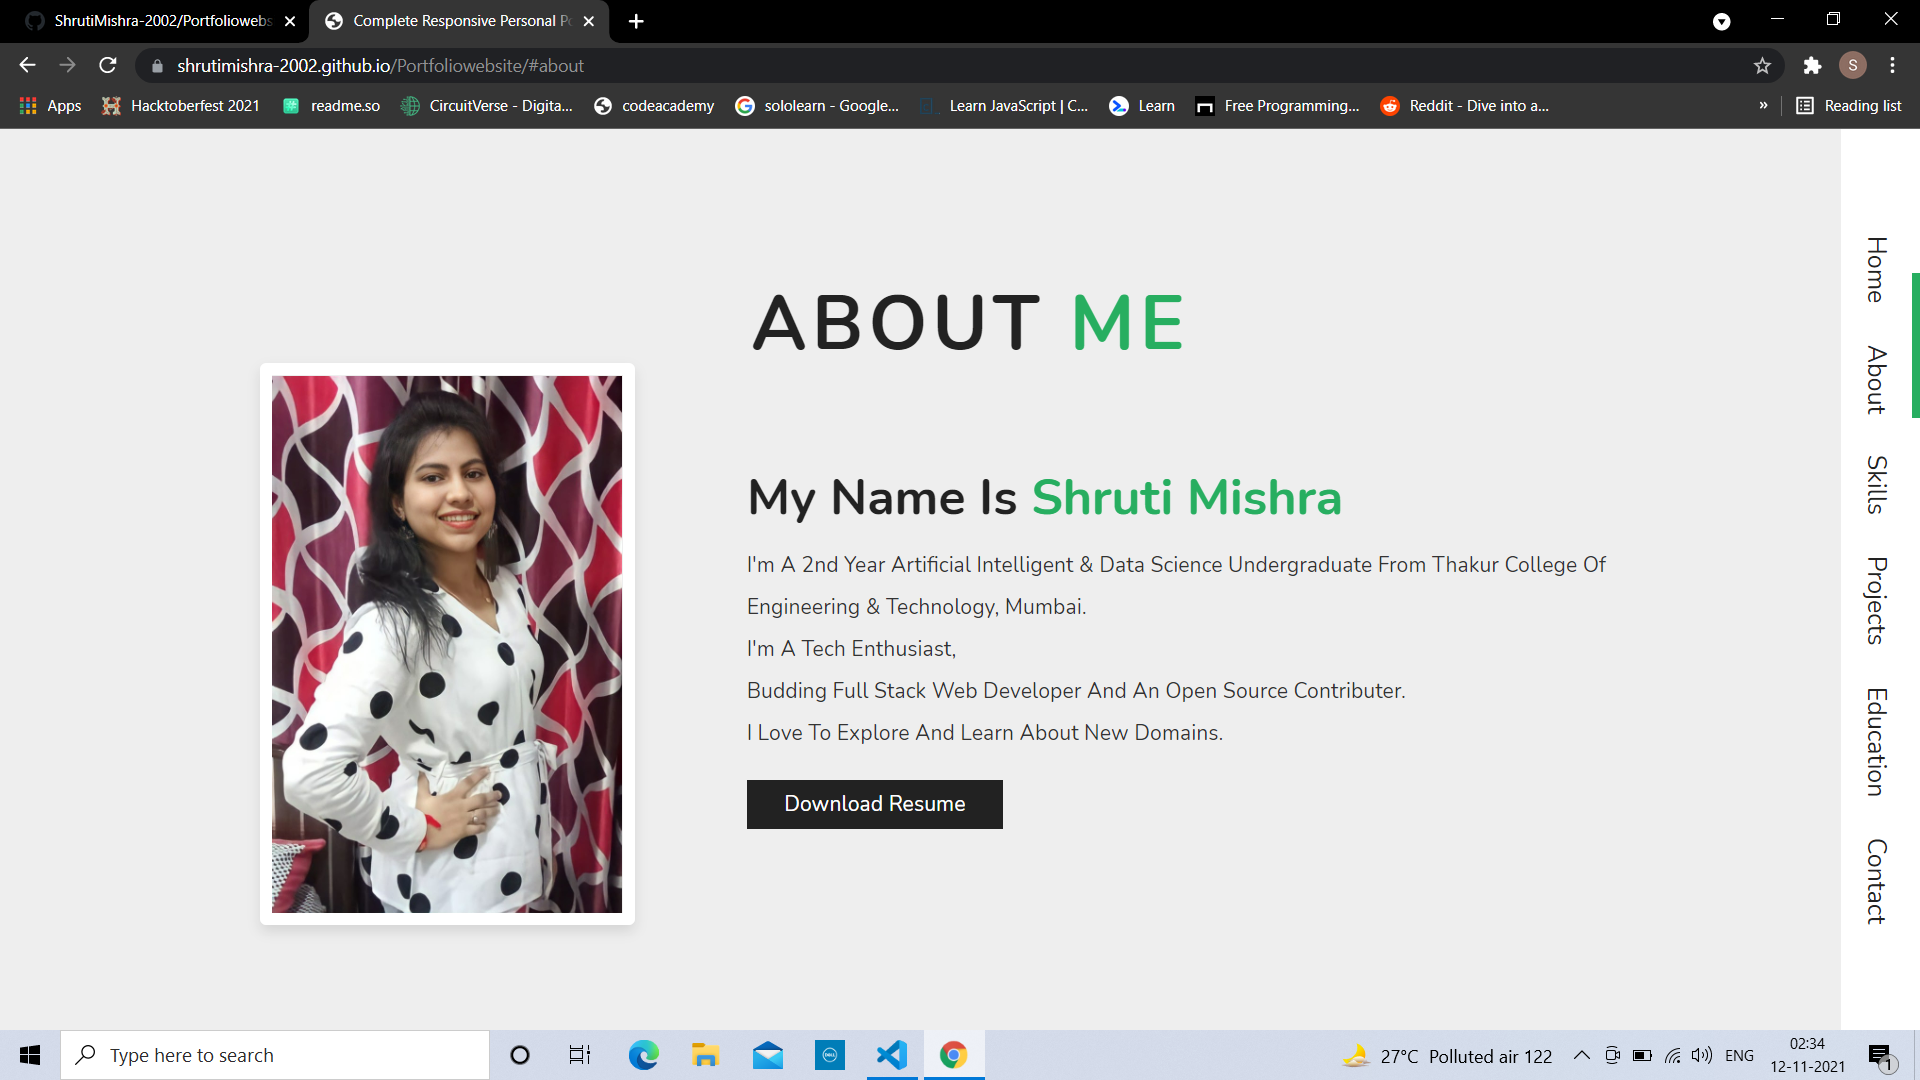
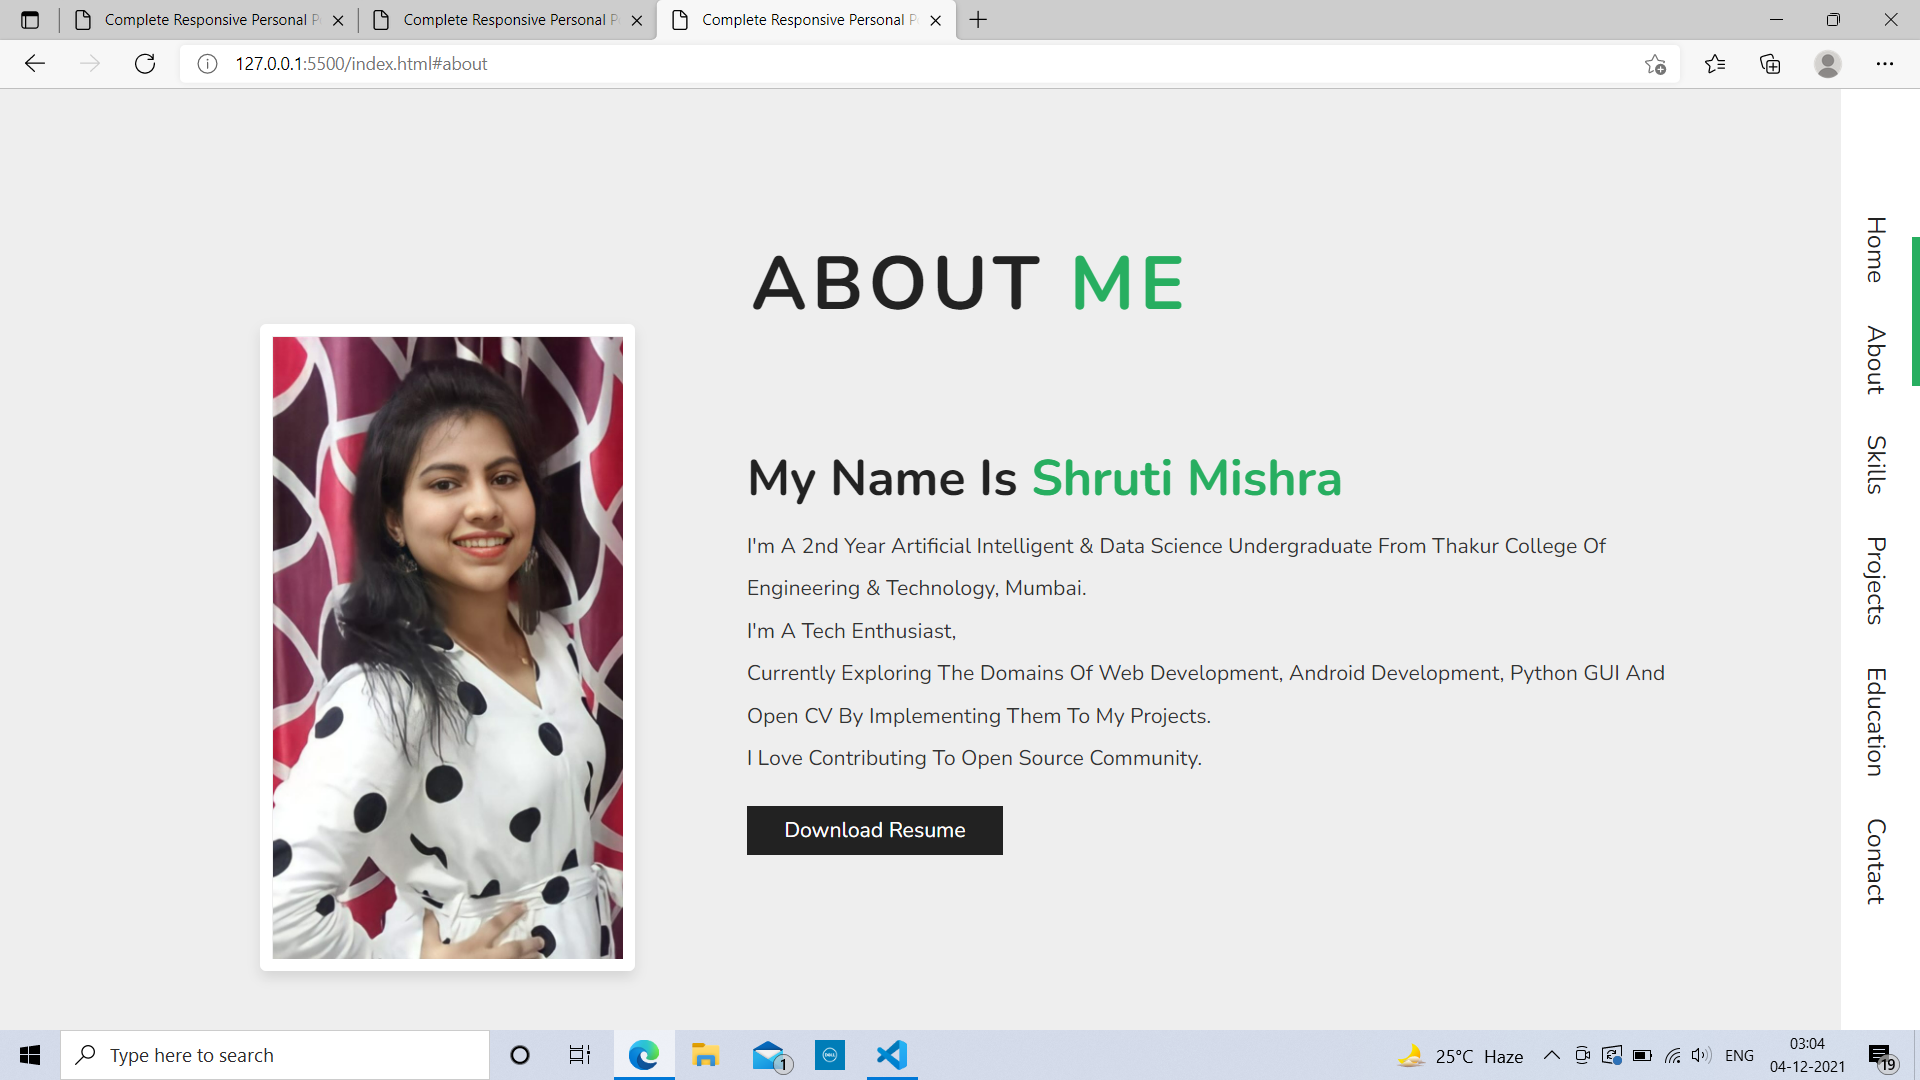
project update

diff --git a/index.html b/index.html
@@ -70,16 +70,16 @@
     <div class="row">
 
         <div class="image">
-            <img class="tilt" src="images/mypic.jpeg" alt="">
+            <img class="tilt" src="images/myself.jpeg" alt="myself">
         </div>
 
         <div class="content">
-            <h3> my name is <span> shruti mishra </span> </h3>
+            <h3> My name is <span> Shruti Mishra </span> </h3>
             <p class="info">I'm a 2nd year Artificial Intelligent & Data Science Undergraduate 
                 from Thakur College Of Engineering & Technology, Mumbai. <br>
                  I'm a Tech Enthusiast,<br>
-                 Budding Full stack Web Developer and an Open Source Contributer.<br>
-                  I love to explore and learn about new domains.
+                 Currently exploring the domains of Web development, Android development, Python GUI and Open CV by implementing them to my projects.<br>
+                  I love contributing to open source community.
             </p>
            <!--- <p>
                 <i class="fab fa-linkedin"></i><span> <i class="fab fa-github"></i></span><span><i class="fas fa-envelope"></i></span>
@@ -98,49 +98,46 @@
 
 <section class="skills" id="skills">
 
-    <h1 class="heading"> <span> my </span> skills </h1>
+    <h1 class="heading"> <span> My </span> skills </h1>
     <br><br>
     <div class="box-container">
 
         <div class="box tilt">
             <i class="fas fa-code"></i>
-            <h3>web development</h3>
+            <h3>Web development</h3>
             <p>HTML , CSS , BOOTSTRAP , JAVASCRIPT , WORDPRESS .</p>
         </div>
 
         <div class="box tilt">
             <i class="fas fa-paint-brush"></i>
-            <h3>graphic design</h3>
-            <p>CANVA , ADOBE PHOTOSHOP , PICSART .</p>
+            <h3>Graphic design</h3>
+            <p>Using CANVA, ADOBE PHOTOSHOP, PICSART for creating various contents .</p>
         </div>
 
         <div class="box tilt">
             <i class="fas fa-database"></i>
             <h3>DBMS</h3>
-            <p> mysql a relational database management system.</p>
+            <p> Using MySQL system for creating different domains database management system.</p>
         </div>
         <!--changes-->
         <div class="box tilt">
-            <i class="fas fa-cloud"></i>
-            <h3>google cloud</h3>
-            <p> QWIKLABS PROFILE:<a href="https://www.cloudskillsboost.google/public_profiles/06ff8adb-b987-4305-8260-8ac20b9689cc"></a>
-            <br>
-            <a href="https://www.cloudskillsboost.google/public_profiles/188c5ae4-4271-4b20-9f20-5a33eefc9645"></a>
-            </p>
+            <i class="fab fa-python"></i>
+            <h3>Python</h3>
+            <p>Implementing python modules in different real life projects.</p>
         </div>
 
         <div class="box tilt">
             <i class="fab fa-github"></i>
-            <h3>git/github</h3>
-            <p>Open source contribution .<br>
+            <h3>Git/github</h3>
+            <p>Contributing to different open source project as a collective efforts towards successful project outcome.<br>
             <a href="https://github.com/ShrutiMishra-2002"></a>
             </p>
         </div>
 
         <div class="box tilt">
-            <i class="fab fa-linux"></i>
-            <h3>LINUX</h3>
-            <p>UBUNTU , CENTOS .</p>
+            <i class="fab fa-android"></i>
+            <h3>Kotlin</h3>
+            <p>Using kotlin language for developing android apps.</p>
         </div>
 
     </div>
@@ -165,39 +162,62 @@
         </div>
 
         <div class="box tilt">
-            <img src="images/mandarinoriental.jpeg" alt="">
+            <img src="images/mandarinoriental.png" alt="mandarinoriental">
             <div class="content">
-                <a href="https://shrutimishra-2002.github.io/TheMandarinOriental/" class="btn">learn more</a>
+                <a href="https://shrutimishra-2002.github.io/The-Mandarin-Oriental/" class="btn">learn more</a>
             </div>
         </div>
 
         <div class="box tilt">
-            <img src="images/admissionform.png" alt="">
+            <img src="images/admissionform.png" alt="admissionform">
             <div class="content">
                 <a href="https://shrutimishra-2002.github.io/ADMISSION-FORM-WEBSITE/" class="btn">learn more</a>
             </div>
         </div>
 
         <div class="box tilt">
-            <img src="images/festivegreeting.png" alt="">
+            <img src="images/festivegreeting.png" alt="festivegreeting">
             <div class="content">
                 <a href="https://shrutimishra-2002.github.io/Festive-Greetings/" class="btn">learn more</a>
             </div>
         </div>
 
         <div class="box tilt">
-            <img src="images/portfolio.png" alt="">
+            <img src="images/portfolio.png" alt="portfolio">
             <div class="content">
-                <a href="#" class="btn">learn more</a>
+                <a href="https://github.com/ShrutiMishra-2002/Portfoliowebsite" class="btn">learn more</a>
             </div>
         </div>
 
         <div class="box tilt">
-            <img src="images/img-6.jpg" alt="">
+            <img src="images/quotes.jpeg" alt="quotesgui">
             <div class="content">
-                <a href="#" class="btn">learn more</a>
+                <a href="https://github.com/ShrutiMishra-2002/Quotes-gui" class="btn">learn more</a>
             </div>
         </div>
+
+        <div class="box tilt">
+            <img src="images/pythongui.png" alt="pythongui">
+            <div class="content">
+                <a href="https://github.com/ShrutiMishra-2002/PythonGUI" class="btn">learn more</a>
+            </div>
+        </div>
+
+        <div class="box tilt">
+            <img src="images/formgui.jpeg" alt="formgui">
+            <div class="content">
+                <a href="https://github.com/ShrutiMishra-2002/Dance-Academy-form-Gui" class="btn">learn more</a>
+            </div>
+        </div>
+
+        <div class="box tilt">
+            <img src="images/airgosql.jpeg" alt="sql">
+            <div class="content">
+                <a href="https://github.com/ShrutiMishra-2002/Airgo-SQL" class="btn">learn more</a>
+            </div>
+        </div>
+
+
 
     </div>
     

diff --git a/css/style.css b/css/style.css
@@ -645,6 +645,11 @@ h1 {
         font-size: 3rem;
     }
 
+    /*.process-wrapper{
+
+
+    }*/
+
 }
 
 @media (max-width:450px){

diff --git a/README.md b/README.md
@@ -28,6 +28,9 @@
 <img src="images/skills.png" alt="skills" width="700px" height="400px">
 <br><br>
 
+<img src="images/projects.png" alt="projects" width="700px" height="400px">
+<br><br>
+
 <img src="images/education.png" alt="education" width="700px" height="400px">
 <br><br>
 
